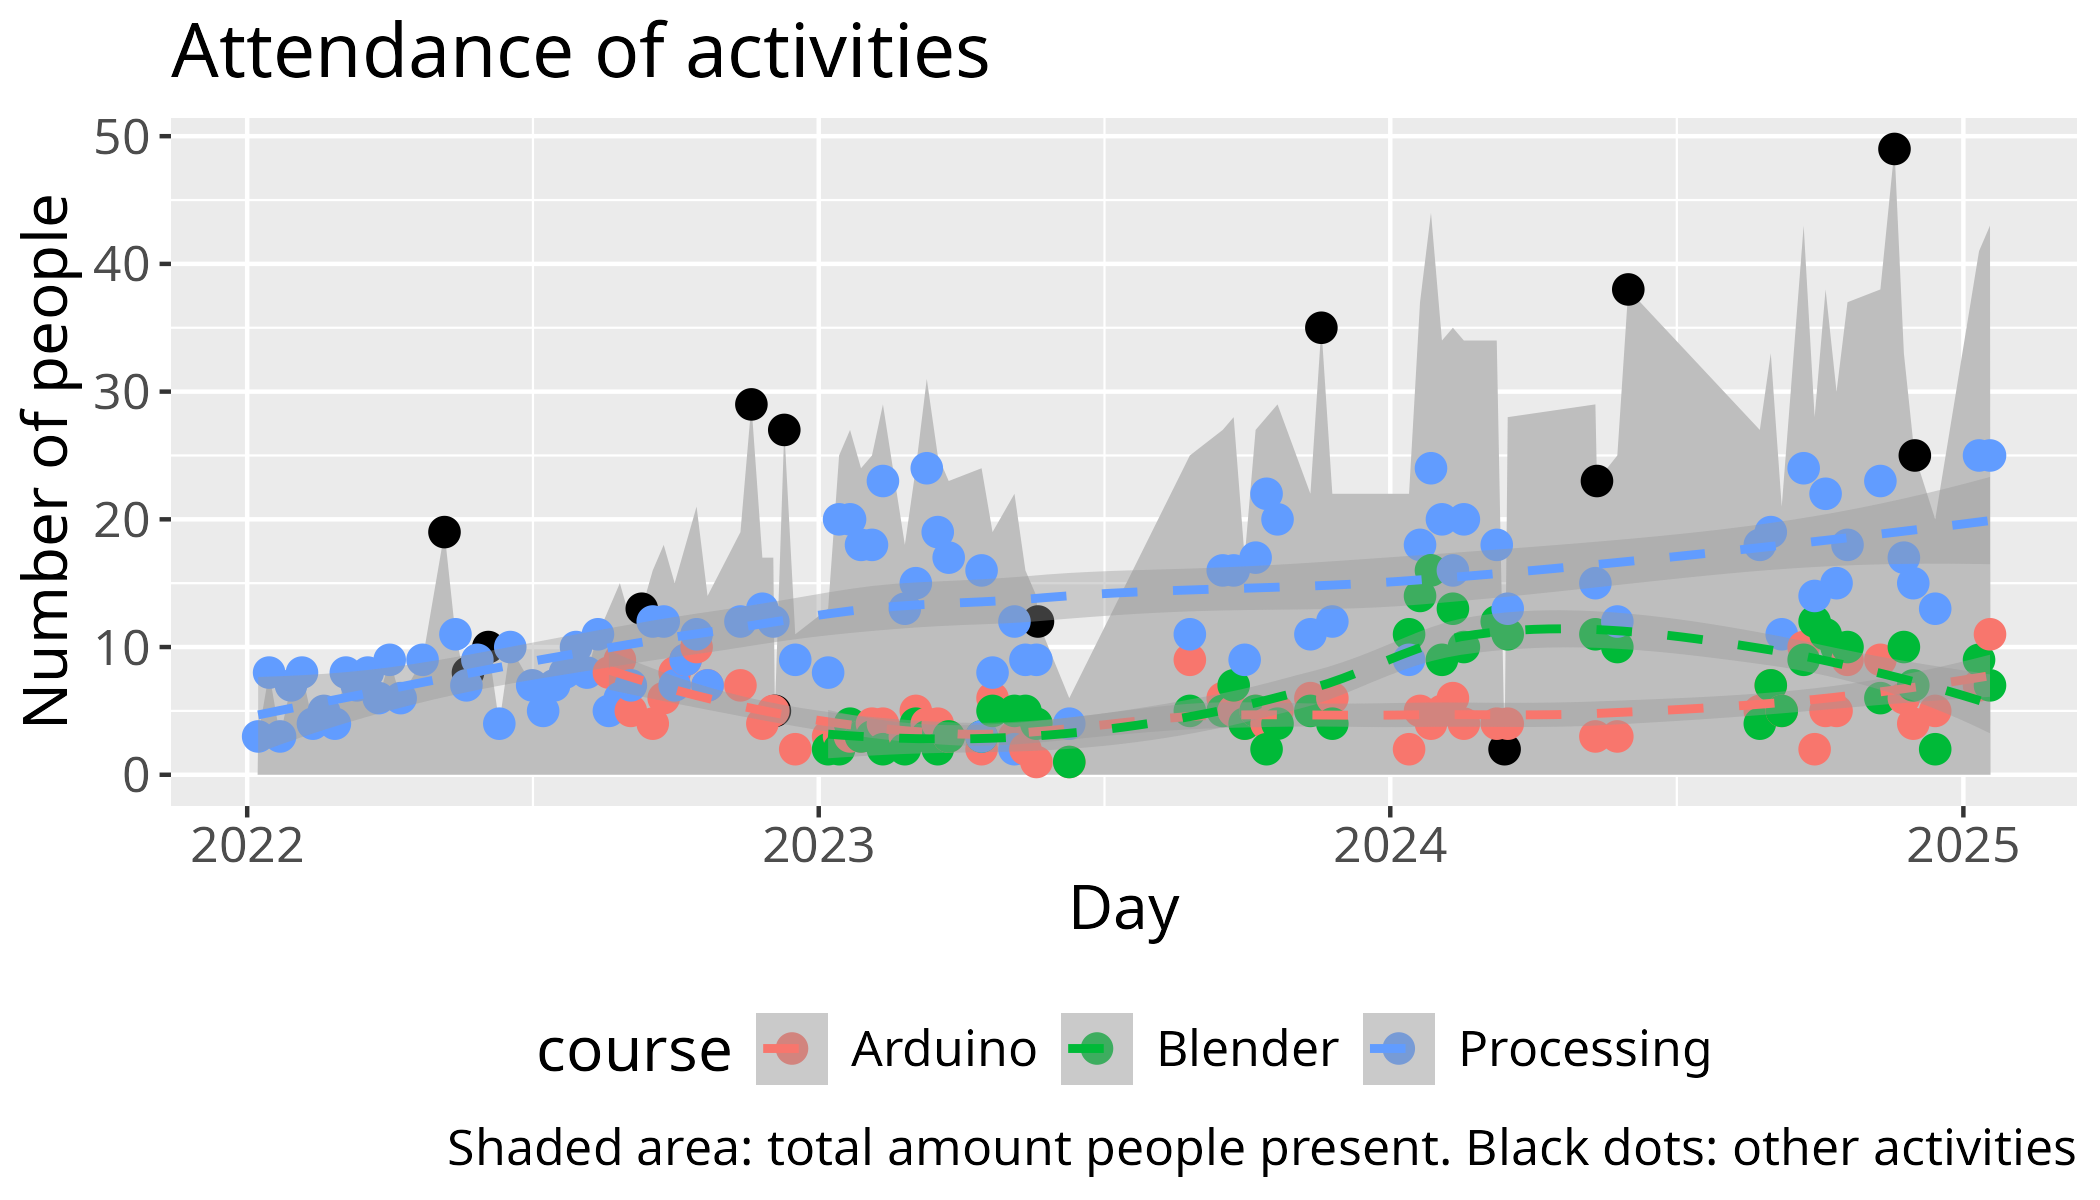
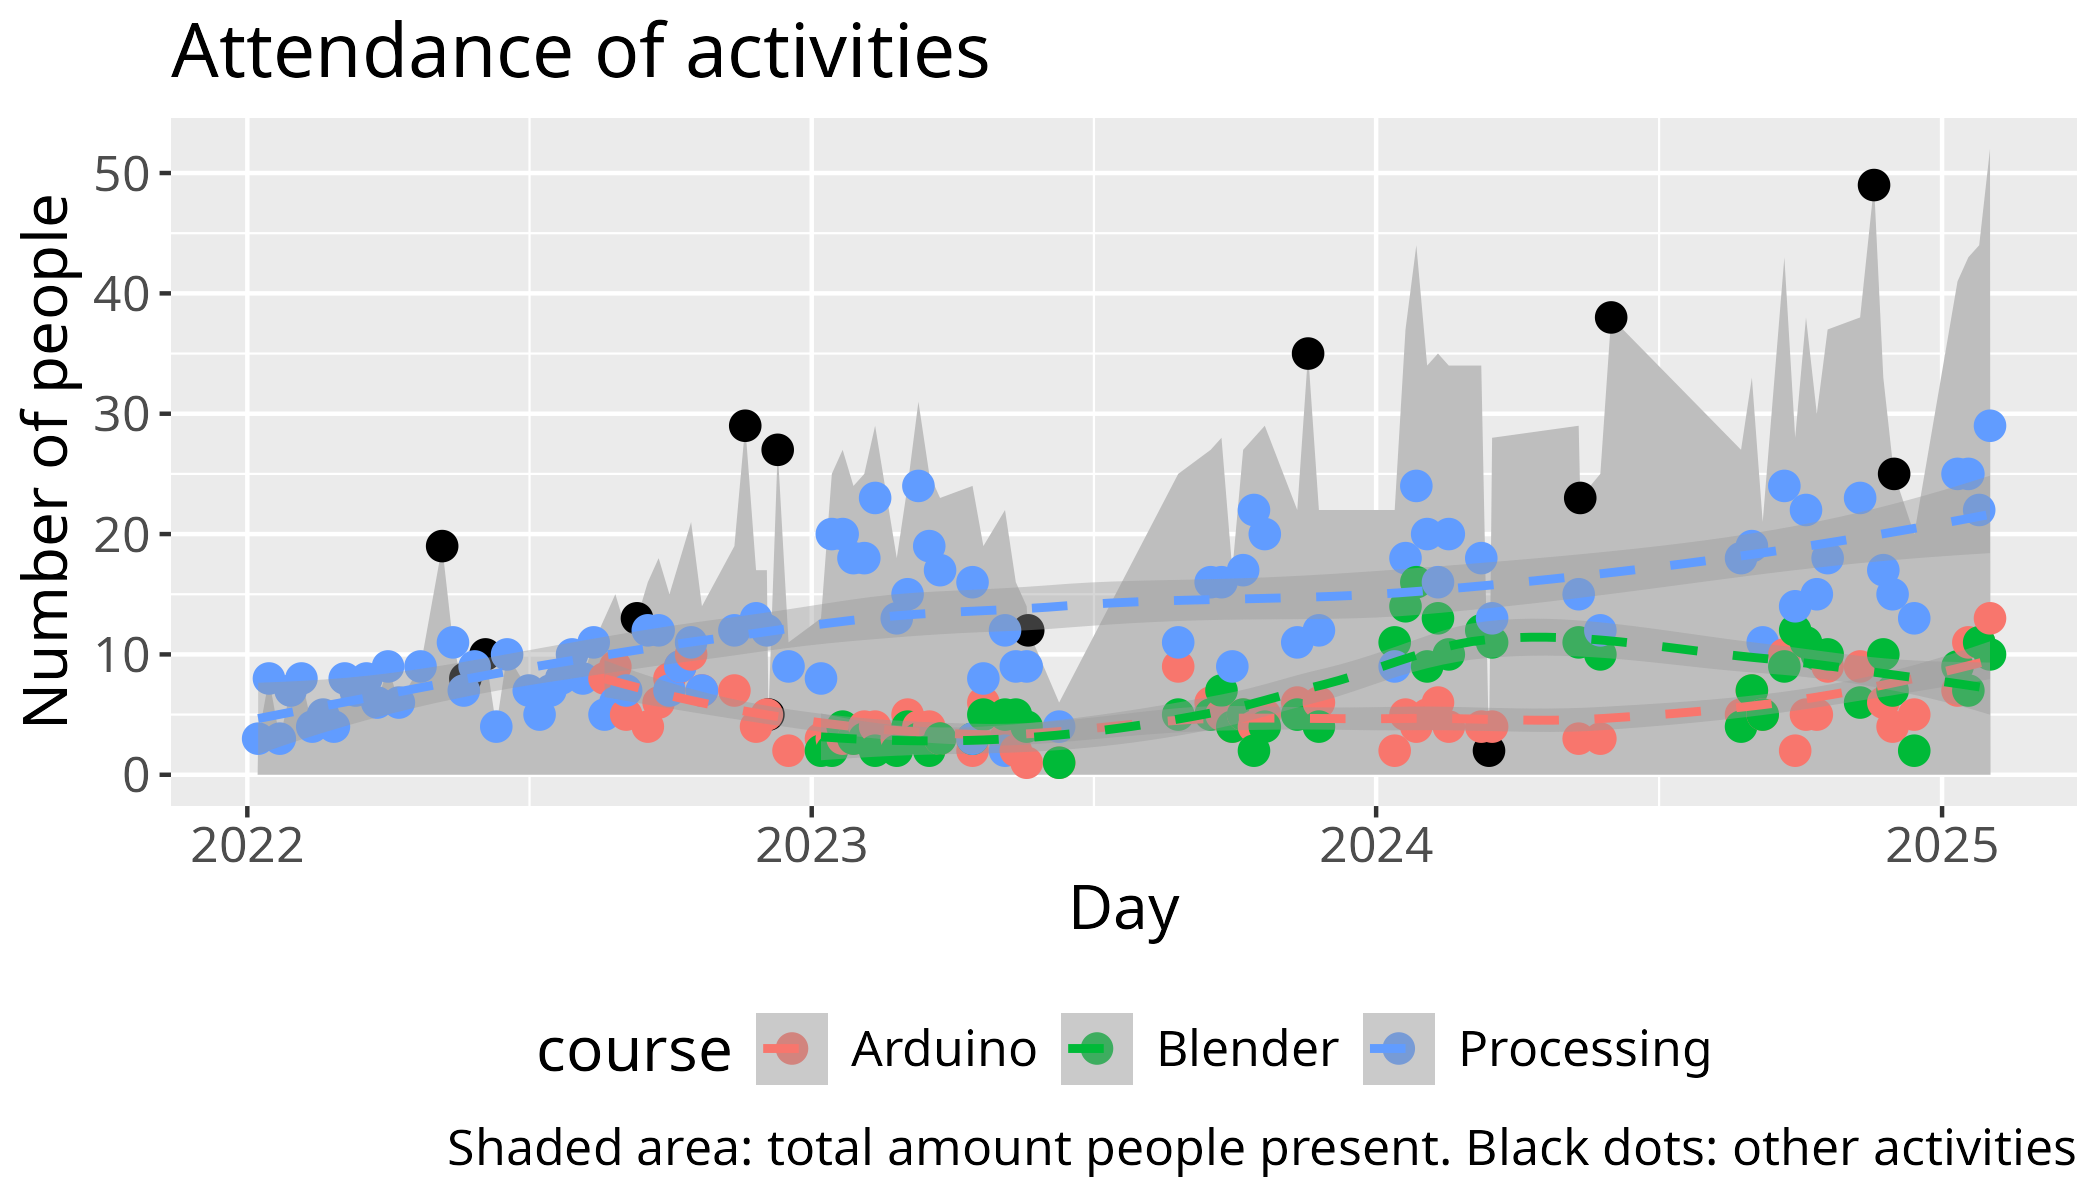
Update data

diff --git a/docs/data/statistiker_besoekare/README.md b/docs/data/statistiker_besoekare/README.md
@@ -11,25 +11,7 @@ As a plot:
 
 Predictions:
 
-![Predictions 2025 by human](n_per_day_per_course_and_predictions.png)
+![Predictions 2025](n_per_day_per_course_and_predictions.png)
 
-> Predictions 2025 by human, using a Gompertz fit.
-> Note that both Arduino and Blender did not converge,
-> hence they are both set to zero. Due to this,
-> the predicted Blender values exactly overlap the
-> predicted Arduino values.
-
-![Predictions 2025 by AI](predictions_2025_linear.png)
-
-> Predictions 2025 by AI. Note how bad it does its predictions:
-> instead of taking the last amount of learners to predict on
-> (which is, for example, around 20 for Processing),
-> it takes the average amount of learners of the entire period.
-
-![Predictions 2025 by AI](predictions_2025.png)
-
-> Predictions 2025 by AI taking seasonality into account.
-> Note how bad it does its predictions:
-> instead of taking the last amount of learners to predict on
-> (which is, for example, around 20 for Processing),
-> it takes the average amount of learners of the entire period.
+> Predictions 2025, using a logistic model if it would apply,
+> else using a linear model.
